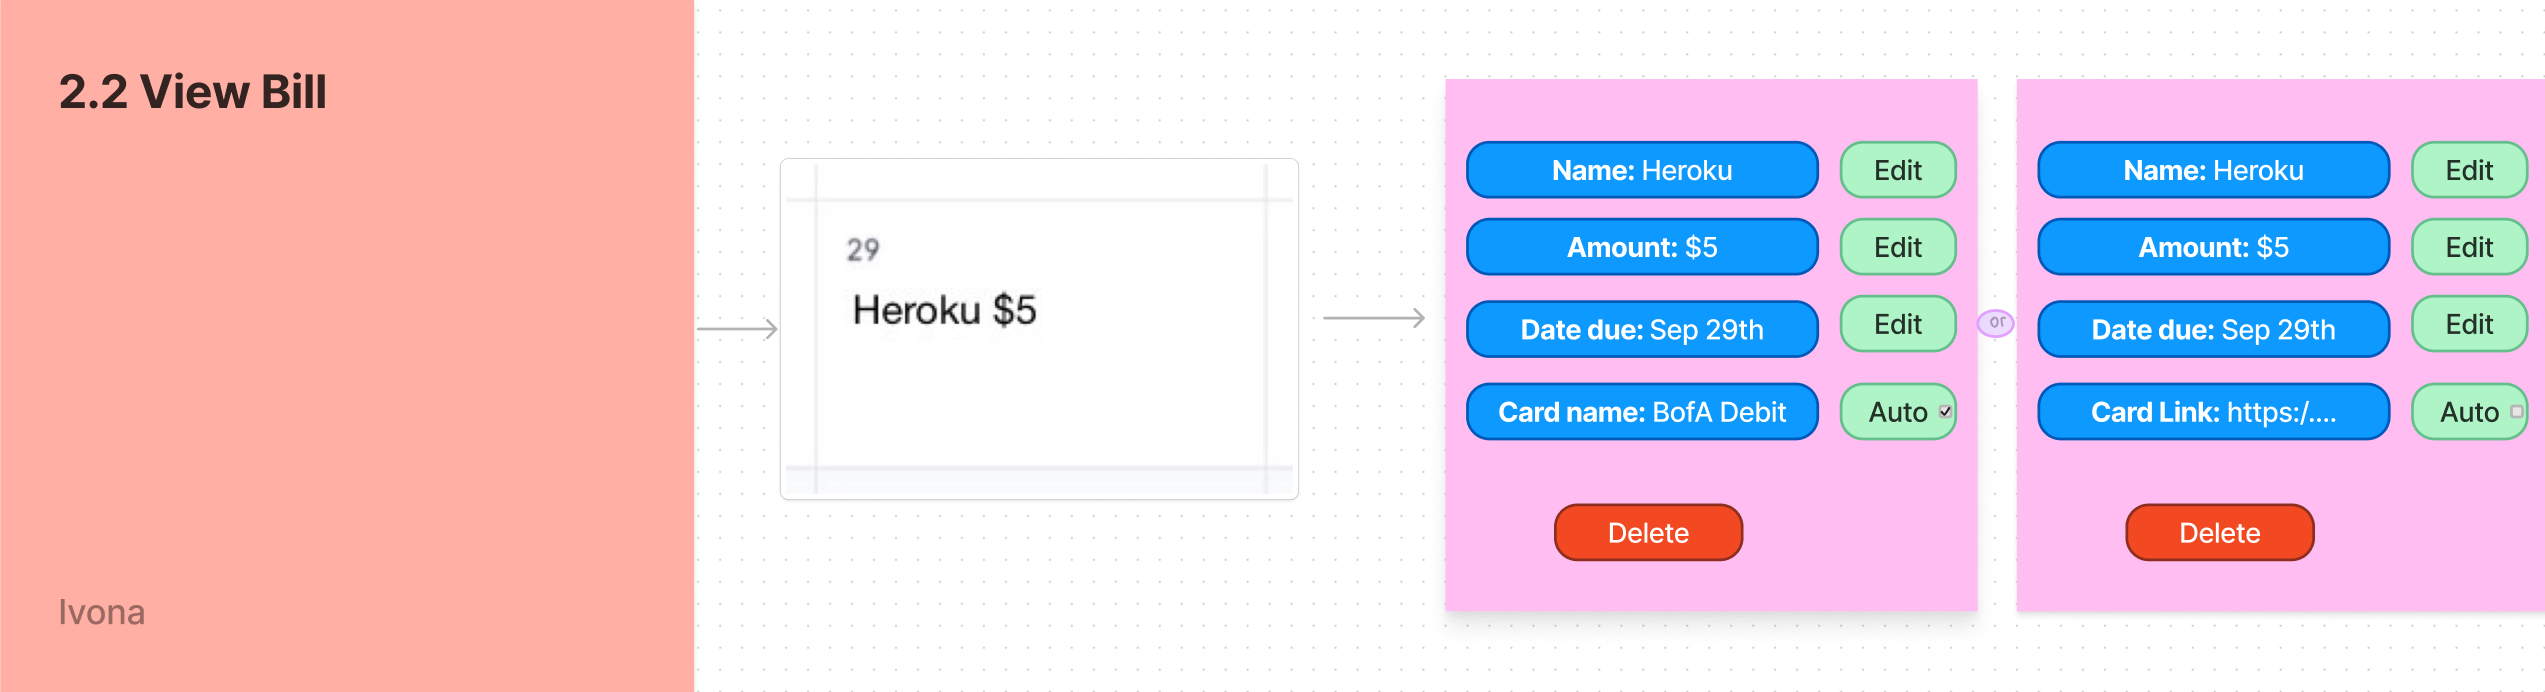
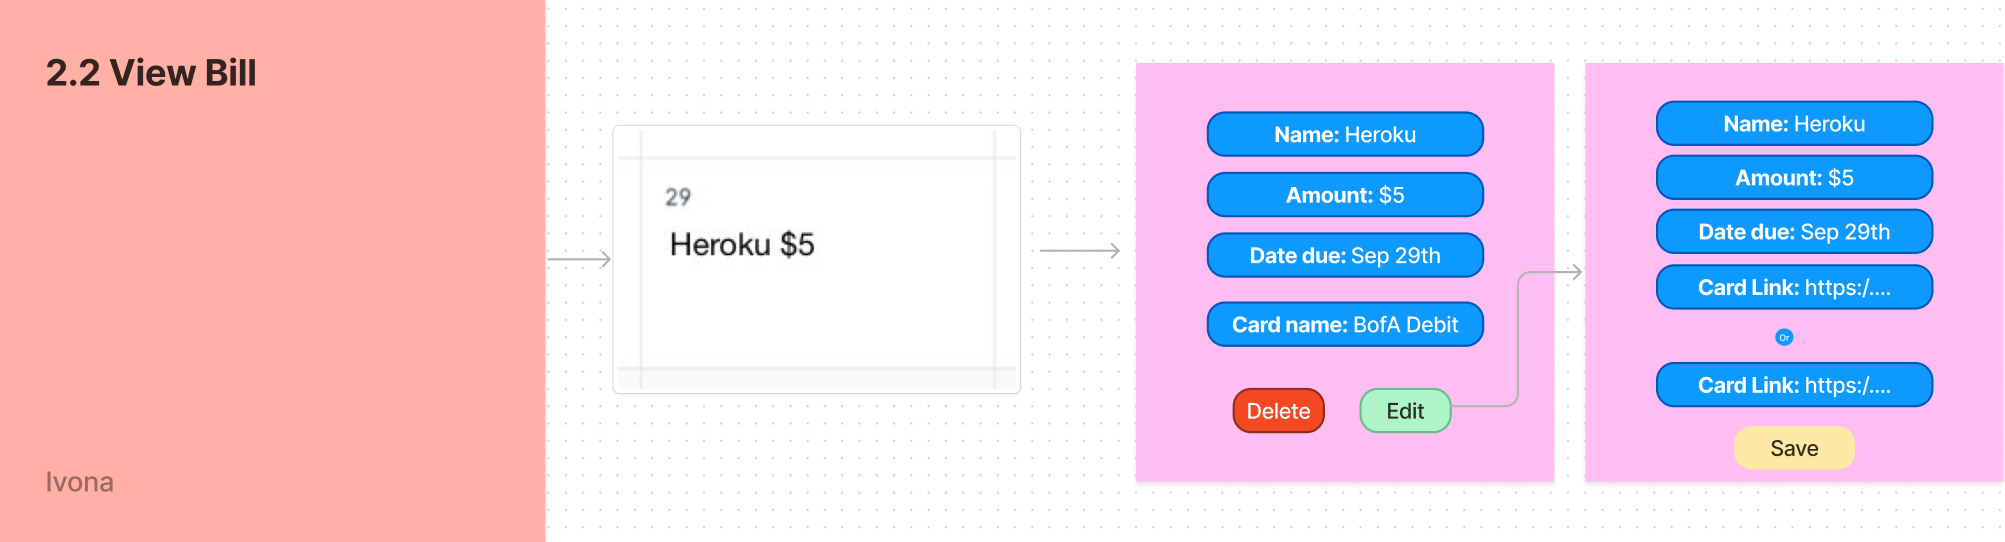
Features adited on BIll View, description uodate on Add Bill

diff --git a/README.md b/README.md
@@ -35,13 +35,13 @@ The user can switch views from monthly to weekly on every page. As well as the u
 
 ![Bill View](BillView.jpg)
 
-Users are able to click on a bill and open its information. Bill view has an option to edit name, amount, date due or switch from auto to payment link. Delete button allows users to delete the entire bill.
+Users are able to click on a bill and open its information in a pop up window. Bill view displays name, amount, due date payment information. The “Delete” button allows users to delete the entire bill. Once clicked the “Edit” button replaced the bill view pop up. On edit pop up users can edit all the bill information and save it.
 
 ### 2.3 Add Bill
 
 ![Add Bill Future](AddBill.jpg)
 
-When users hover over a date’s number an option ‘+’ to add a new bill appears. Once clicked it opens a form with fields for the bill’s information. Basic information is the bill’s name and amount. The optional is payment information. Users can paste a link to their bill’s payment information for easier future allocation of the page, or they can put a name of the card they are using and that way they know where the money will be taken from. 
+When users hover over a date’s number an option “+” to add a new bill appears. Once clicked it opens a pop up form with fields for the bill’s information. Basic information is the bill’s name and amount. The optional is payment information. Users can paste a link to their bill’s payment information for easier future allocation of the page, or they can put a name of the card they are using and that way they know where the money will be taken from. After the “Save” button is clicked the pop up form closes and bill appears on the date added. Users get to stay on the monthly view page at all times.
 
 # 3rd Party API
 
